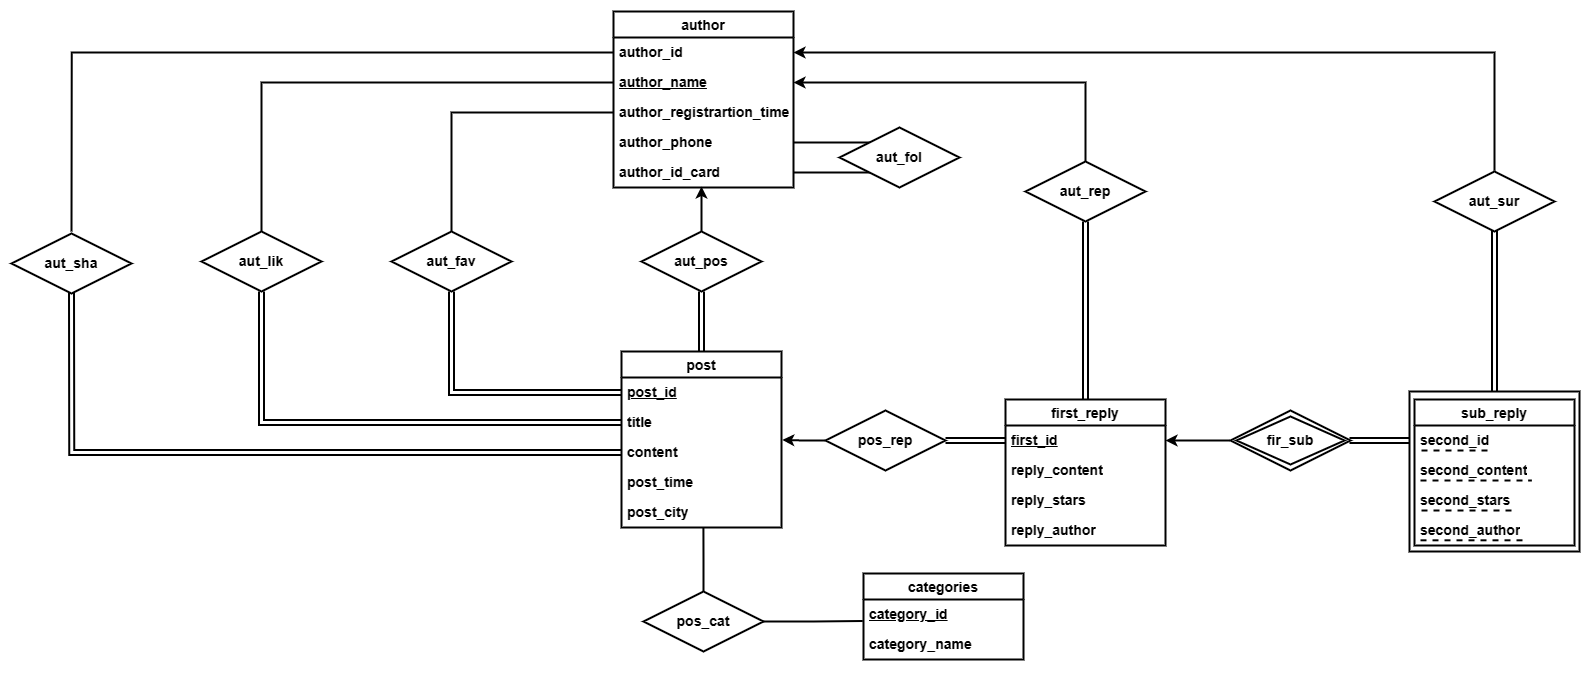
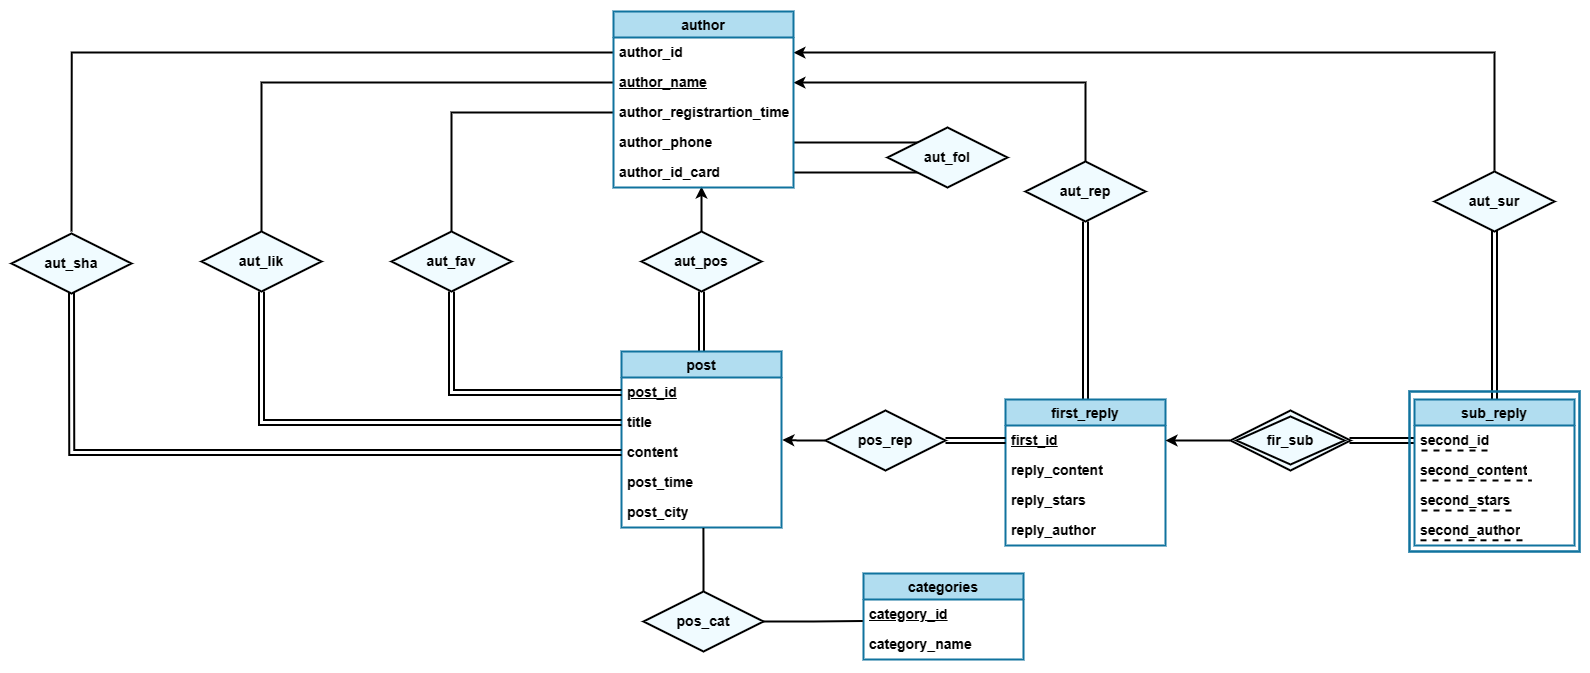
Change follower to followed

diff --git a/project1/Loader/src/Main.java b/project1/Loader/src/Main.java
@@ -91,6 +91,7 @@ public class Main {
                 System.out.println("Successfully connected to the database "
                         + prop.getProperty("database") + " as " + prop.getProperty("user"));
                 con.setAutoCommit(false);
+                //set auto commit to false，so that the data will not be inserted into the database until the commit statement is executed.
             }
         } catch (SQLException e) {
             System.err.println("Database connection failed");

diff --git a/project1/Report/CS307-Database Project 1.md b/project1/Report/CS307-Database Project 1.md
@@ -1,6 +1,8 @@
 # CS307-Database Project 1
 
-Group session: Thursday 3-4
+Group Session: Thursday 3-4
+
+Group Number:306
 
 Name(SID): 钟志源(12110517)、刘浩贤(12111515)
 
@@ -10,7 +12,7 @@ percentages of contributions： 50% : 50%
 
 ### Task 1: E-R Diagram
 
-- The E-R Diagram is draw with [diagrams.net](https://app.diagrams.net/)
+- The E-R Diagram is drawed with [diagrams.net](https://app.diagrams.net/)
 
 <img src="C:\Users\25375\Desktop\DB\CS307_Database\project1\Report\E-R Diagram.png" alt="E-R Diagram"  />
 
@@ -51,12 +53,12 @@ percentages of contributions： 50% : 50%
      - post_id: the id of the post (integer type, foreign key to posts.post_id)
      - category_name: the name of the category (text type, foreign key to categories.category_name)
    - **Primary Key**: (post_id, category_name)
-5. **Table Name: author_followers (Relationship set)**
-   - Description: This table represents the many-to-many relationship between authors and their followers. Each row represents an author and their follower.
+5. **Table Name: author_follow (Relationship set)**
+   - Description: This table represents the many-to-many relationship between authors and the account it followed. Each row represents an author and who they followed.
    - Columns:
      - author_name: the name of the author being followed (text type, foreign key to authors.author_name)
-     - follower_name: the name of the follower (text type, foreign key to authors.author_name, not null)
-   - **Primary Key**: (author_name, follower_name)
+     - followed_name: the name of the account followed by author (text type, foreign key to authors.author_name, not null)
+   - **Primary Key**: (author_name, followed_name)
 6. **Table Name: post_favorites (Relationship set)**
    - Description: This table represents the many-to-many relationship between posts and authors who have marked them as favorites. Each row represents a post and the author who marked it as a favorite.
    - Columns:
